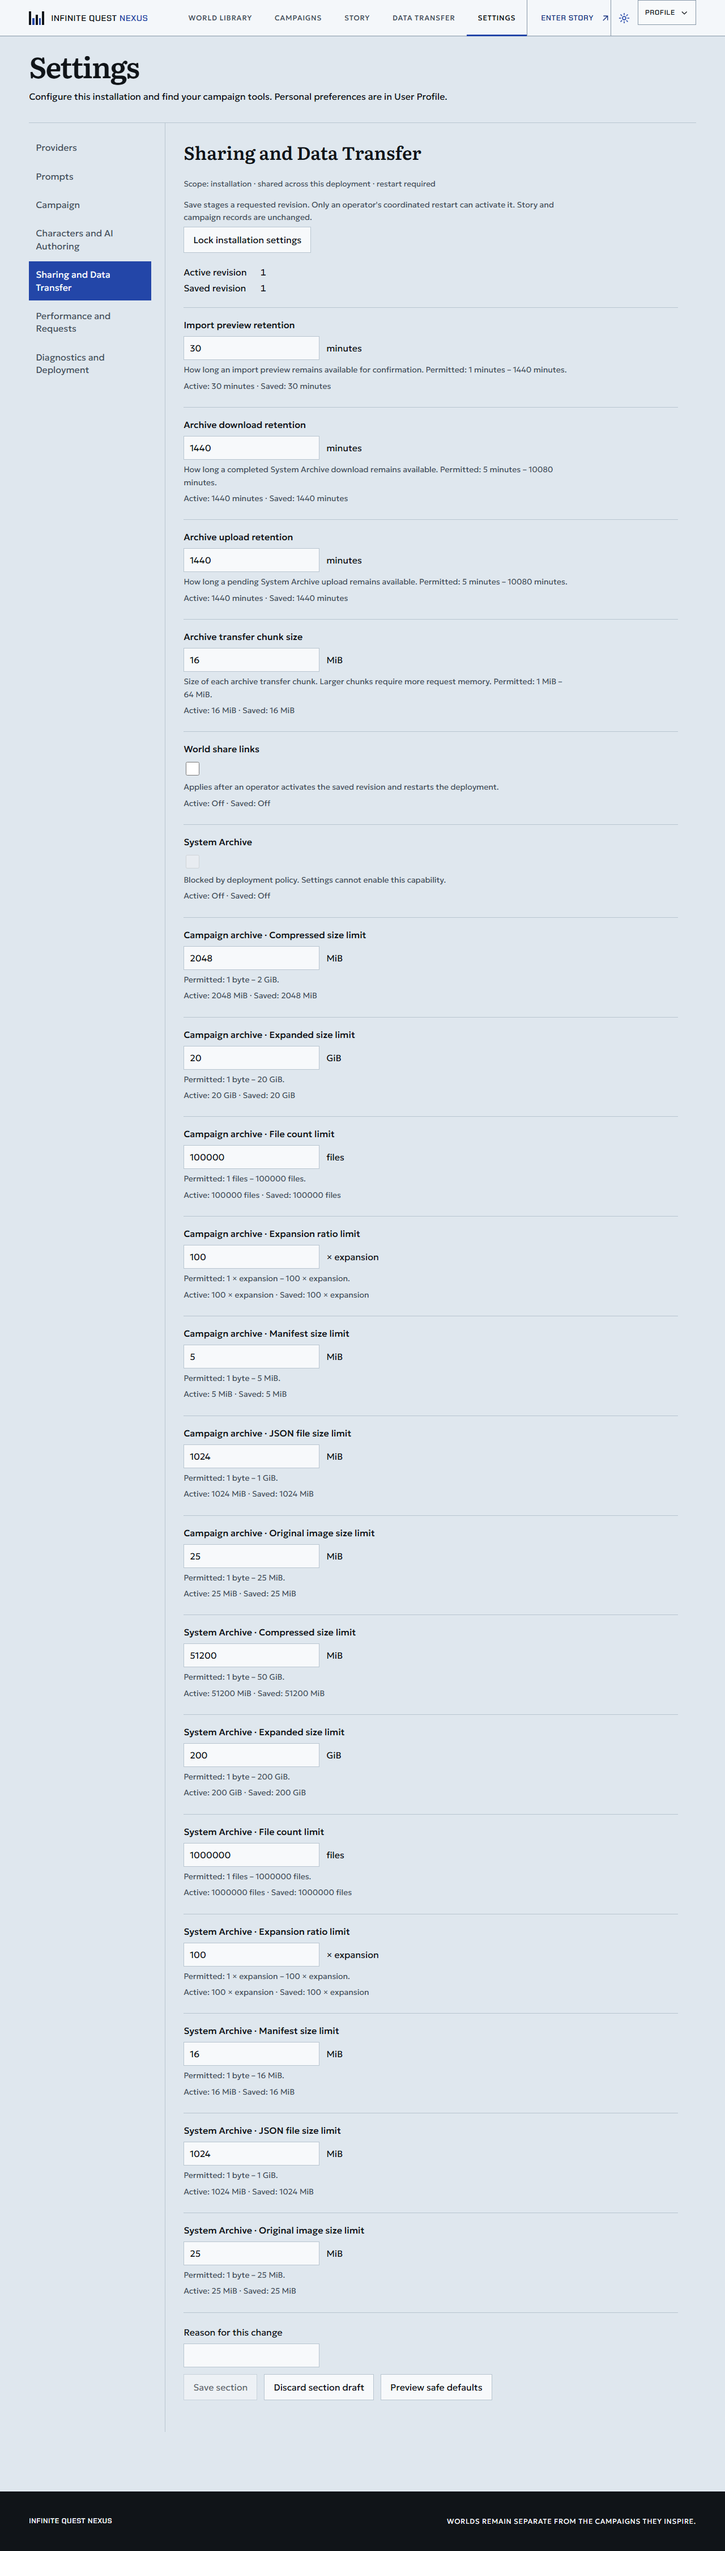
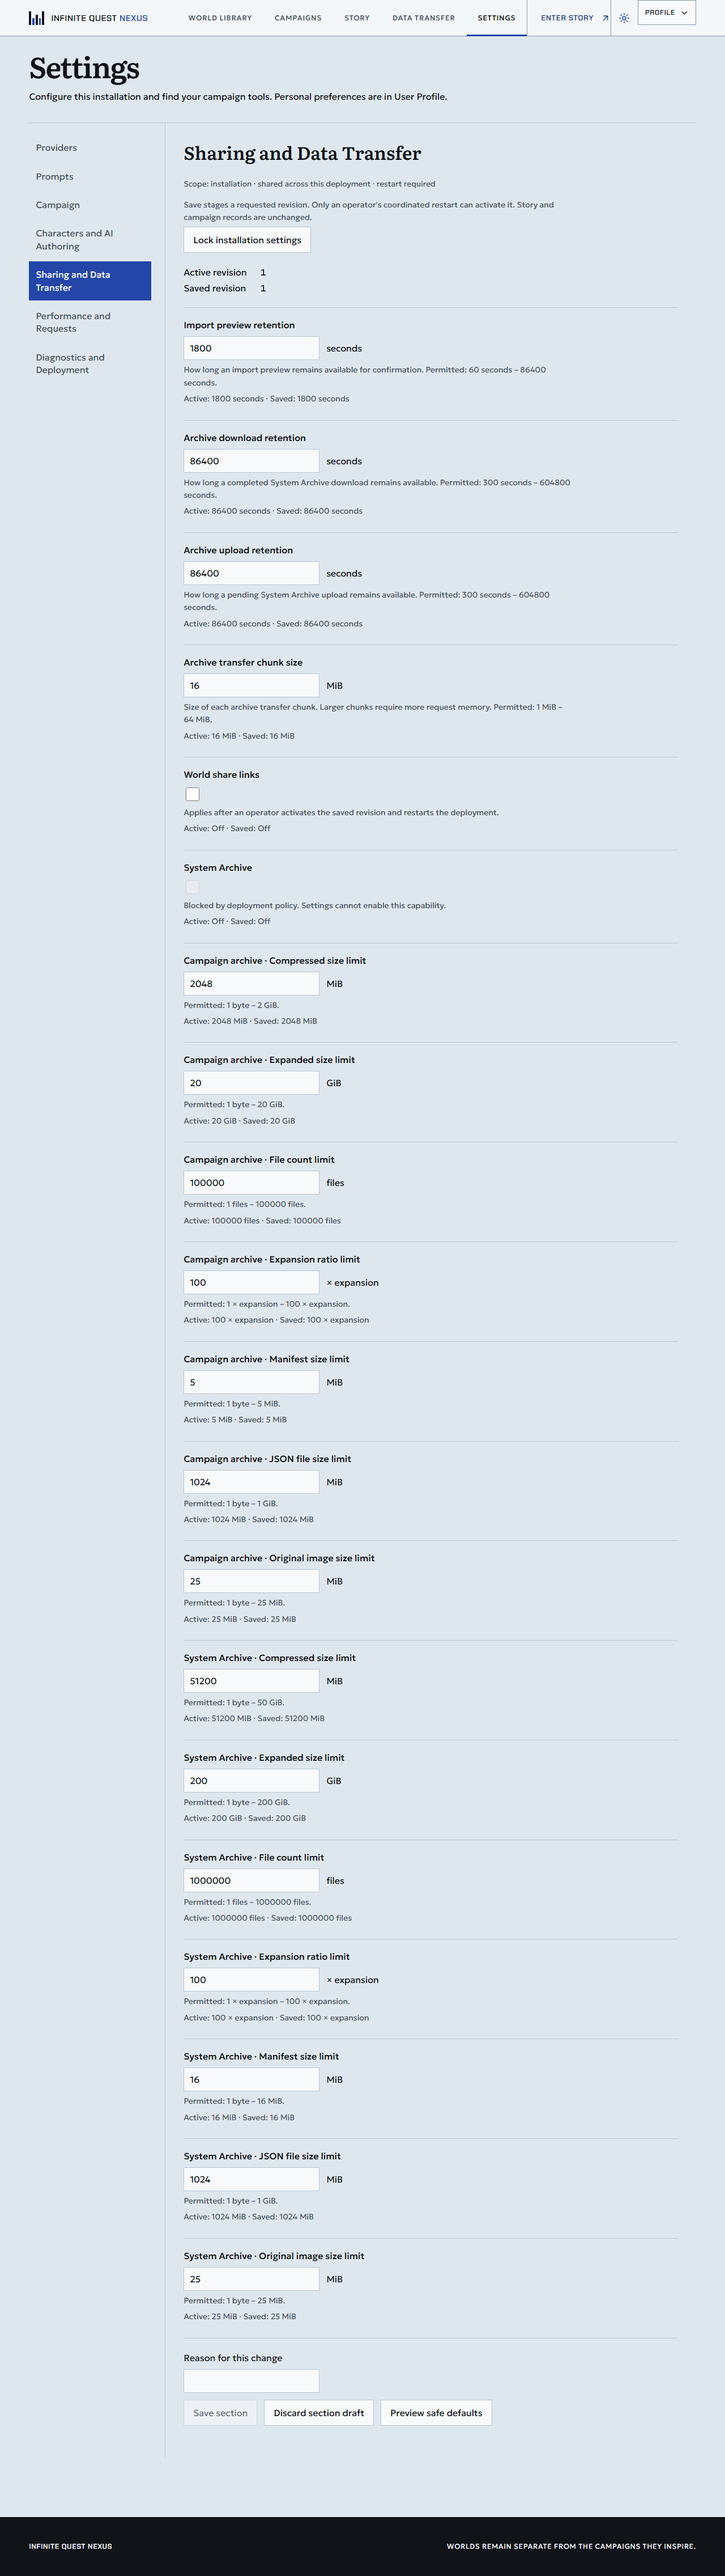
Fix Settings retention units and identity disposal

Changed region(s): [[0.25, 0.0311, 0.5938, 0.9333], [0.0312, 0.0311, 0.1562, 0.1556], [0.1562, 0.0, 0.1875, 0.0311]]

diff --git a/tests/e2e/settings-panel.e2e.test.ts b/tests/e2e/settings-panel.e2e.test.ts
@@ -89,3 +89,48 @@ test(`${mode} foreign campaign route cannot create an editor and blocked storage
   await page.goto(`${base}/app/settings?section=providers`); await expect(page.getByRole("link", { name: "Open provider editor" })).toBeVisible();
   await expect(page.locator('.settings-content input[type="password"]')).toHaveCount(0);
 });
+
+test(`${mode} retention accepts arbitrary whole seconds from minute-aligned saved defaults`, async ({ page }) => {
+  await api(page);
+  await page.goto(`${base}/app/settings?section=sharing`);
+  const preview = page.getByRole("textbox", { name: "Import preview retention", exact: true });
+  const download = page.getByRole("textbox", { name: "Archive download retention", exact: true });
+  await expect(preview).toHaveValue("1800");
+  await preview.fill("61"); await preview.press("Tab");
+  await download.fill("301"); await download.press("Tab");
+  await page.getByLabel("Reason for this change").fill("Exact whole-second retention");
+  await page.getByRole("button", { name: "Save section", exact: true }).click();
+  await page.getByRole("button", { name: "Confirm staged Save" }).click();
+  await expect(page.getByRole("status")).toHaveText("Saved — restart required");
+  await expect(page.locator(".settings-field").filter({ has: preview }).locator(".settings-comparison")).toContainText("Saved: 61 seconds");
+  await expect(page.locator(".settings-field").filter({ has: download }).locator(".settings-comparison")).toContainText("Saved: 301 seconds");
+  await page.screenshot({ path: `docs/review/assets/settings-panel/${mode}-retention-fix.png`, fullPage: true });
+});
+test(`${mode} identity change removes loaded campaign titles and editor links`, async ({ page }) => {
+  await api(page);
+  const campaignId = quietLeafApiPayloads().campaigns.campaigns[0]!.id;
+  await page.goto(`${base}/app/settings?section=campaign&campaignId=${campaignId}`);
+  await expect(page.getByRole("link", { name: "Open campaign editor" })).toBeVisible();
+  await page.evaluate(() => window.dispatchEvent(new Event("app-identity-changed")));
+  await expect(page.getByText("Your account changed. Reload Settings to continue.")).toBeVisible();
+  await expect(page.getByRole("link", { name: "Open campaign editor" })).toHaveCount(0);
+  await expect(page.getByText("Fixture Story", { exact: true })).toHaveCount(0);
+  await page.screenshot({ path: `docs/review/assets/settings-panel/${mode}-identity-fix.png` });
+});
+test(`${mode} identity change ignores a late campaign response`, async ({ page }) => {
+  await api(page);
+  let release!: () => void;
+  const gate = new Promise<void>(resolve => { release = resolve; });
+  let requested!: () => void;
+  const started = new Promise<void>(resolve => { requested = resolve; });
+  await page.route("**/api/v1/campaigns", async route => {
+    requested(); await gate;
+    await route.fulfill({ status: 200, contentType: "application/json", body: JSON.stringify(quietLeafApiPayloads().campaigns) }).catch(() => undefined);
+  });
+  await page.goto(`${base}/app/settings?section=campaign`); await started;
+  await page.evaluate(() => window.dispatchEvent(new Event("app-identity-changed")));
+  release();
+  await expect(page.getByText("Your account changed. Reload Settings to continue.")).toBeVisible();
+  await expect(page.getByRole("combobox", { name: "Campaign", exact: true })).toHaveCount(0);
+  await expect(page.getByText("Fixture Story", { exact: true })).toHaveCount(0);
+});

diff --git a/apps/web-next/src/settings/page.ts b/apps/web-next/src/settings/page.ts
@@ -172,9 +172,41 @@ export function mountSettingsPage(root: HTMLElement, route: SettingsRoute, optio
   if (installation) void session.load();
   if (route.section === "campaign") void ownerApi.campaigns.list(controller.signal).then(value => { if (!disposed) { campaigns = value.campaigns; render(); } }).catch(() => { if (!disposed) { campaignFailed = true; render(); } });
   if (route.section === "diagnostics") void ownerApi.meta.get(controller.signal).then(value => { if (!disposed) { meta = value; render(); } }).catch(() => undefined);
-  // Future authentication owns this event. Existing authority is always rechecked server-side.
-  const onIdentityChange = () => { reason = ""; validation = []; review = false; resetPreview = false; controller.abort(); void session.logout(); };
+  function disposePage(): void {
+    if (disposed) return;
+    disposed = true;
+    campaigns = null;
+    campaignFailed = false;
+    meta = null;
+    reason = "";
+    validation = [];
+    review = false;
+    resetPreview = false;
+    controller.abort();
+    window.clearInterval(expiryTimer);
+    window.removeEventListener("app-identity-changed", onIdentityChange);
+    unsubscribe();
+    session.dispose();
+    shell.dispose();
+    content.replaceChildren();
+  }
+  // Identity changes invalidate the whole route, including its owner-scoped list and links.
+  // Disposing also guards late responses even if a transport ignores cancellation.
+  const onIdentityChange = () => {
+    void session.logout();
+    disposePage();
+    const main = node(document, "main");
+    main.id = "main-content";
+    const message = node(document, "p", "Your account changed. Reload Settings to continue.");
+    message.setAttribute("role", "status");
+    const reload = node(document, "a", "Reload Settings");
+    reload.href = "/app/settings";
+    main.append(message, reload);
+    root.replaceChildren(main);
+  };
   window.addEventListener("app-identity-changed", onIdentityChange);
-  const expiryTimer = window.setInterval(() => { if (session.state.expiresAt && Date.parse(session.state.expiresAt) <= Date.now()) onIdentityChange(); }, 1000);
-  return { dispose() { if (disposed) return; disposed = true; controller.abort(); window.clearInterval(expiryTimer); window.removeEventListener("app-identity-changed", onIdentityChange); unsubscribe(); session.dispose(); shell.dispose(); content.replaceChildren(); } };
+  const expiryTimer = window.setInterval(() => {
+    if (session.state.expiresAt && Date.parse(session.state.expiresAt) <= Date.now()) void session.logout();
+  }, 1000);
+  return { dispose: disposePage };
 }

diff --git a/tests/unit/web-next-settings-page.test.ts b/tests/unit/web-next-settings-page.test.ts
@@ -14,3 +14,23 @@ it("disposes a mounted route before late unlock status can render", async () => 
   expect(root.innerHTML).toBe(afterDispose);
   expect(root.textContent).not.toContain("Operator management key");
 });
+import { vi } from "vitest";
+it("disposes campaign ownership state on identity change even when a late transport ignores cancellation", async () => {
+  const { document, window } = parseHTML("<body><div id=app></div></body>");
+  Object.defineProperty(window, "location", { configurable: true, value: new URL("https://example.test/app/settings?section=campaign") });
+  let finish!: (value: Response) => void;
+  vi.stubGlobal("fetch", () => new Promise<Response>(resolve => { finish = resolve; }));
+  try {
+    const root = document.querySelector<HTMLElement>("#app")!;
+    const page = mountSettingsPage(root, { section: "campaign", campaignId: null });
+    await vi.waitFor(() => expect(finish).toBeTypeOf("function"));
+    window.dispatchEvent(new window.Event("app-identity-changed"));
+    expect(root.textContent).toContain("Your account changed. Reload Settings to continue.");
+    const cleared = root.innerHTML;
+    finish(new Response(JSON.stringify({ campaigns: [] }), { headers: { "Content-Type": "application/json" } }));
+    await new Promise(resolve => setTimeout(resolve, 0));
+    expect(root.innerHTML).toBe(cleared);
+    expect(root.querySelector("select")).toBeNull();
+    page.dispose();
+  } finally { vi.unstubAllGlobals(); }
+});

diff --git a/apps/web-next/src/settings/instance-editor.ts b/apps/web-next/src/settings/instance-editor.ts
@@ -20,7 +20,8 @@ export function toDisplayUnit(value: number, factor: number): string {
 export function displayUnit(field: SettingsFieldDescriptor): { factor: number; label: string } {
   if (field.unit === "bytes") return { factor: field.key.endsWith("maxUncompressedBytes") ? 1073741824 : 1048576, label: field.key.endsWith("maxUncompressedBytes") ? "GiB" : "MiB" };
   if (field.unit === "milliseconds") return { factor: 1000, label: "seconds" };
-  if (field.unit === "seconds") return { factor: field.key.includes("Ttl") ? 60 : 1, label: field.key.includes("Ttl") ? "minutes" : "seconds" };
+  // Whole-second inputs can represent every valid TTL, including values not divisible by 60.
+  if (field.unit === "seconds") return { factor: 1, label: "seconds" };
   return { factor: 1, label: field.unit === "ratio" ? "× expansion" : field.unit === "count" ? (field.key.endsWith("maxEntries") ? "files" : field.key === "workerGenerationConcurrency" ? "jobs per worker" : field.key === "textProviderConcurrency" ? "shared slots" : "requests") : "" };
 }
 export function readableValue(field: SettingsFieldDescriptor, value: boolean | string | number): string {

diff --git a/tests/unit/settings-page.test.ts b/tests/unit/settings-page.test.ts
@@ -23,3 +23,11 @@ it("describes exact byte ranges in readable binary units", () => {
   expect(readableRangeValue(field, 21474836480)).toBe("20 GiB");
   expect(readableRangeValue(field, 1048577)).toBe("1,048,577 bytes");
 });
+import { displayUnit } from "../../apps/web-next/src/settings/instance-editor.js";
+it.each([61, 301, 1800, 86401])("round-trips arbitrary valid retention value %s without a repeating decimal", (seconds) => {
+  const field = { key: seconds < 300 ? "archivePreviewTtlSeconds" : "systemArchiveArtifactTtlSeconds", unit: "seconds" } as SettingsFieldDescriptor;
+  const unit = displayUnit(field);
+  expect(fromDisplayUnit(toDisplayUnit(seconds, unit.factor), unit.factor)).toBe(seconds);
+  // The input unit must allow the next whole second even when the saved value divides 60.
+  expect(fromDisplayUnit(String(seconds + 1), unit.factor)).toBe(seconds + 1);
+});
